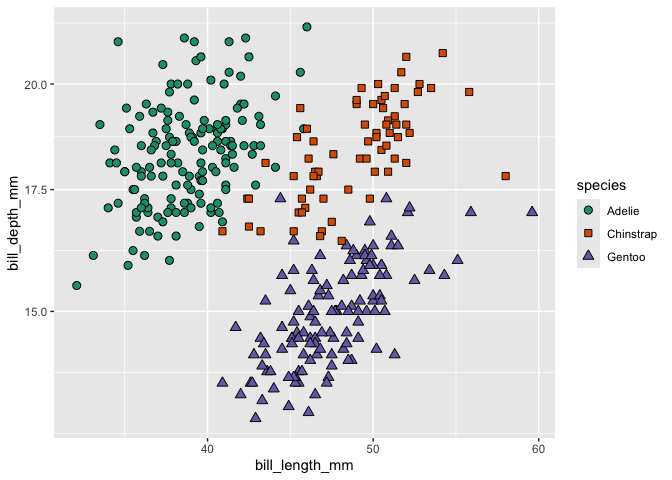
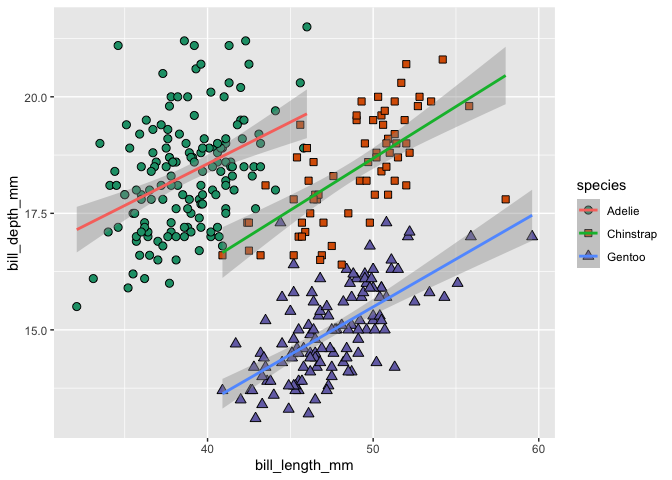
Edits to penguins

diff --git a/README.md b/README.md
@@ -252,6 +252,86 @@ ggplot(data = penguins, aes(x = bill_length_mm, y = bill_depth_mm)) +
 
 ![](README.markdown_github_files/figure-markdown_github/unnamed-chunk-10-1.png)
 
+Let’s put a `geom_smooth()` with `method = "lm"` in there to look at the
+relationships more closely!
+
+``` r
+ggplot(data = penguins, aes(x = bill_length_mm, y = bill_depth_mm)) +
+  geom_point(aes(fill = species,
+                 shape = species),
+             size = 2.5) +
+  geom_smooth(method = "lm") +
+  scale_fill_brewer(palette = "Dark2") +
+  scale_shape_manual(values = c(21, 22, 24))
+```
+
+    `geom_smooth()` using formula = 'y ~ x'
+
+    Warning: Removed 2 rows containing non-finite outside the scale range
+    (`stat_smooth()`).
+
+    Warning: Removed 2 rows containing missing values or values outside the scale range
+    (`geom_point()`).
+
+![](README.markdown_github_files/figure-markdown_github/unnamed-chunk-11-1.png)
+
+What’s going on here? Geoms adopt the aesthetics that are supplied in
+`ggplot(aes(*))` as default. All we provided `ggplot()` was an `x =` and
+a `y =`, so as far as `geom_smooth()` is concerned, the `species` column
+doesn’t exist. Let’s add in `aes(color = species)` to the
+`geom_smooth()` function to tell it to color the smoothed line by
+species.
+
+``` r
+ggplot(data = penguins, aes(x = bill_length_mm, y = bill_depth_mm)) +
+  geom_point(aes(fill = species,
+                 shape = species),
+             size = 2.5) +
+  geom_smooth(method = "lm",
+              aes(color = species)) +
+  scale_fill_brewer(palette = "Dark2") +
+  scale_shape_manual(values = c(21, 22, 24))
+```
+
+    `geom_smooth()` using formula = 'y ~ x'
+
+    Warning: Removed 2 rows containing non-finite outside the scale range
+    (`stat_smooth()`).
+
+    Warning: Removed 2 rows containing missing values or values outside the scale range
+    (`geom_point()`).
+
+![](README.markdown_github_files/figure-markdown_github/unnamed-chunk-12-1.png)
+
+Now there are three separate `geom_smooth()` lines - one for each
+species! However, our nice custom color scheme no longer applies. That’s
+because earlier we changed `scale_color_brewer()` into
+`scale_fill_brewer()` to accommodate Calvin’s unreasonable desire to
+have shapes that fill in with color. Let’s re-add `scale_color_brewer()`
+underneath `scale_fill_brewer()`
+
+``` r
+ggplot(data = penguins, aes(x = bill_length_mm, y = bill_depth_mm)) +
+  geom_point(aes(fill = species,
+                 shape = species),
+             size = 2.5) +
+  geom_smooth(method = "lm",
+              aes(color = species)) +
+  scale_fill_brewer(palette = "Dark2") +
+  scale_color_brewer(palette = "Dark2") +
+  scale_shape_manual(values = c(21, 22, 24))
+```
+
+    `geom_smooth()` using formula = 'y ~ x'
+
+    Warning: Removed 2 rows containing non-finite outside the scale range
+    (`stat_smooth()`).
+
+    Warning: Removed 2 rows containing missing values or values outside the scale range
+    (`geom_point()`).
+
+![](README.markdown_github_files/figure-markdown_github/unnamed-chunk-13-1.png)
+
 ## Scales for axis aesthetics specifically
 
 Your x- and y- axes are part of your aesthetics, just like color, fill,
@@ -270,15 +350,23 @@ ggplot(data = penguins, aes(x = bill_length_mm, y = bill_depth_mm)) +
   geom_point(aes(fill = species,
                  shape = species),
              size = 2.5) +
+  geom_smooth(method = "lm",
+              aes(color = species)) +
   scale_fill_brewer(palette = "Dark2") +
+  scale_color_brewer(palette = "Dark2") +
   scale_shape_manual(values = c(21, 22, 24)) +
   scale_y_continuous(limits = c(0, 30))
 ```
 
+    `geom_smooth()` using formula = 'y ~ x'
+
+    Warning: Removed 2 rows containing non-finite outside the scale range
+    (`stat_smooth()`).
+
     Warning: Removed 2 rows containing missing values or values outside the scale range
     (`geom_point()`).
 
-![](README.markdown_github_files/figure-markdown_github/unnamed-chunk-11-1.png)
+![](README.markdown_github_files/figure-markdown_github/unnamed-chunk-14-1.png)
 
 ### Q1.4: How to use the existing maximum for limits
 
@@ -304,15 +392,23 @@ ggplot(data = penguins, aes(x = bill_length_mm, y = bill_depth_mm)) +
   geom_point(aes(fill = species,
                  shape = species),
              size = 2.5) +
+  geom_smooth(method = "lm",
+              aes(color = species)) +
   scale_fill_brewer(palette = "Dark2") +
+  scale_color_brewer(palette = "Dark2") +
   scale_shape_manual(values = c(21, 22, 24)) +
   scale_y_log10()
 ```
 
+    `geom_smooth()` using formula = 'y ~ x'
+
+    Warning: Removed 2 rows containing non-finite outside the scale range
+    (`stat_smooth()`).
+
     Warning: Removed 2 rows containing missing values or values outside the scale range
     (`geom_point()`).
 
-![](README.markdown_github_files/figure-markdown_github/unnamed-chunk-12-1.png)
+![](README.markdown_github_files/figure-markdown_github/unnamed-chunk-15-1.png)
 
 ## Axis and legend titles
 
@@ -332,23 +428,32 @@ ggplot(data = penguins, aes(x = bill_length_mm, y = bill_depth_mm)) +
   geom_point(aes(fill = species,
                  shape = species),
              size = 2.5) +
+  geom_smooth(method = "lm",
+              aes(color = species)) +
   scale_fill_brewer(palette = "Dark2") +
+  scale_color_brewer(palette = "Dark2") +
   scale_shape_manual(values = c(21, 22, 24)) +
   labs(x = "Bill length (mm)",
        y = "Bill depth (mm)")
 ```
 
+    `geom_smooth()` using formula = 'y ~ x'
+
+    Warning: Removed 2 rows containing non-finite outside the scale range
+    (`stat_smooth()`).
+
     Warning: Removed 2 rows containing missing values or values outside the scale range
     (`geom_point()`).
 
-![](README.markdown_github_files/figure-markdown_github/unnamed-chunk-13-1.png)
+![](README.markdown_github_files/figure-markdown_github/unnamed-chunk-16-1.png)
 
 ### Q1.5: Change the legend title
 
 The legend title is currently not capitalized - add to the `labs()`
 function to change the title of the correct aesthetic(s) to make the
 legend title read “Species”. (You may encounter an unexpected result -
-try and figure out what you can do to make it appear how you want!).
+try and figure out what you can do to make it appear how you want! Hint:
+how many different aesthetics is `species` currently mapped to?).
 
 ## Themes
 
@@ -373,20 +478,29 @@ ggplot(data = penguins, aes(x = bill_length_mm, y = bill_depth_mm)) +
   geom_point(aes(fill = species,
                  shape = species),
              size = 2.5) +
+  geom_smooth(method = "lm",
+              aes(color = species)) +
   scale_fill_brewer(palette = "Dark2") +
+  scale_color_brewer(palette = "Dark2") +
   scale_shape_manual(values = c(21, 22, 24)) +
   labs(x = "Bill length (mm)",
        y = "Bill depth (mm)", 
        fill = "Species",
+       color = "Species",
        shape = "Species") +
   theme(axis.title.x = element_text(color = "red",
                                     size = 16))
 ```
 
+    `geom_smooth()` using formula = 'y ~ x'
+
+    Warning: Removed 2 rows containing non-finite outside the scale range
+    (`stat_smooth()`).
+
     Warning: Removed 2 rows containing missing values or values outside the scale range
     (`geom_point()`).
 
-![](README.markdown_github_files/figure-markdown_github/unnamed-chunk-14-1.png)
+![](README.markdown_github_files/figure-markdown_github/unnamed-chunk-17-1.png)
 
 Depending on what the element is, you use a different `element_*()`
 function:
@@ -417,24 +531,33 @@ options pop up! Let’s click on and add `theme_classic()`.
 
 ``` r
 ggplot(data = penguins, aes(x = bill_length_mm, y = bill_depth_mm)) +
-  geom_point(aes(fill = species,
+ geom_point(aes(fill = species,
                  shape = species),
              size = 2.5) +
+  geom_smooth(method = "lm",
+              aes(color = species)) +
   scale_fill_brewer(palette = "Dark2") +
+  scale_color_brewer(palette = "Dark2") +
   scale_shape_manual(values = c(21, 22, 24)) +
   labs(x = "Bill length (mm)",
        y = "Bill depth (mm)", 
        fill = "Species",
+       color = "Species",
        shape = "Species") +
   theme(axis.title.x = element_text(color = "red",
                                     size = 16)) +
   theme_classic()
 ```
 
+    `geom_smooth()` using formula = 'y ~ x'
+
+    Warning: Removed 2 rows containing non-finite outside the scale range
+    (`stat_smooth()`).
+
     Warning: Removed 2 rows containing missing values or values outside the scale range
     (`geom_point()`).
 
-![](README.markdown_github_files/figure-markdown_github/unnamed-chunk-15-1.png)
+![](README.markdown_github_files/figure-markdown_github/unnamed-chunk-18-1.png)
 
 That looks quite nice! The weird gray default background is gone, and
 there’s now a traditional x and y axis with no axis panel grids.
@@ -458,11 +581,15 @@ ggplot(data = penguins, aes(x = bill_length_mm, y = bill_depth_mm)) +
   geom_point(aes(fill = species,
                  shape = species),
              size = 2.5) +
+  geom_smooth(aes(color = species),
+              method = "lm") +
   scale_fill_brewer(palette = "Dark2") +
+  scale_color_brewer(palette = "Dark2") +
   scale_shape_manual(values = c(21, 22, 24)) +
   labs(x = "Bill length (mm)",
        y = "Bill depth (mm)", 
        fill = "Species",
+       color = "Species",
        shape = "Species") +
   theme_classic() +
   theme(axis.title = element_text(size = 14),
@@ -470,14 +597,20 @@ ggplot(data = penguins, aes(x = bill_length_mm, y = bill_depth_mm)) +
         legend.text = element_text(size = 12),
         legend.title = element_text(size = 12),
         legend.position = "inside",
-        legend.position.inside = c(0.9, 0.15)
+        legend.position.inside = c(0.9, 0.15),
+        legend.background = element_rect(color = "black")
         )
 ```
+
+    `geom_smooth()` using formula = 'y ~ x'
+
+    Warning: Removed 2 rows containing non-finite outside the scale range
+    (`stat_smooth()`).
 
     Warning: Removed 2 rows containing missing values or values outside the scale range
     (`geom_point()`).
 
-![](README.markdown_github_files/figure-markdown_github/unnamed-chunk-16-1.png)
+![](README.markdown_github_files/figure-markdown_github/unnamed-chunk-19-1.png)
 
 # 2) CO2 Uptake in Grass Plants Data
 
